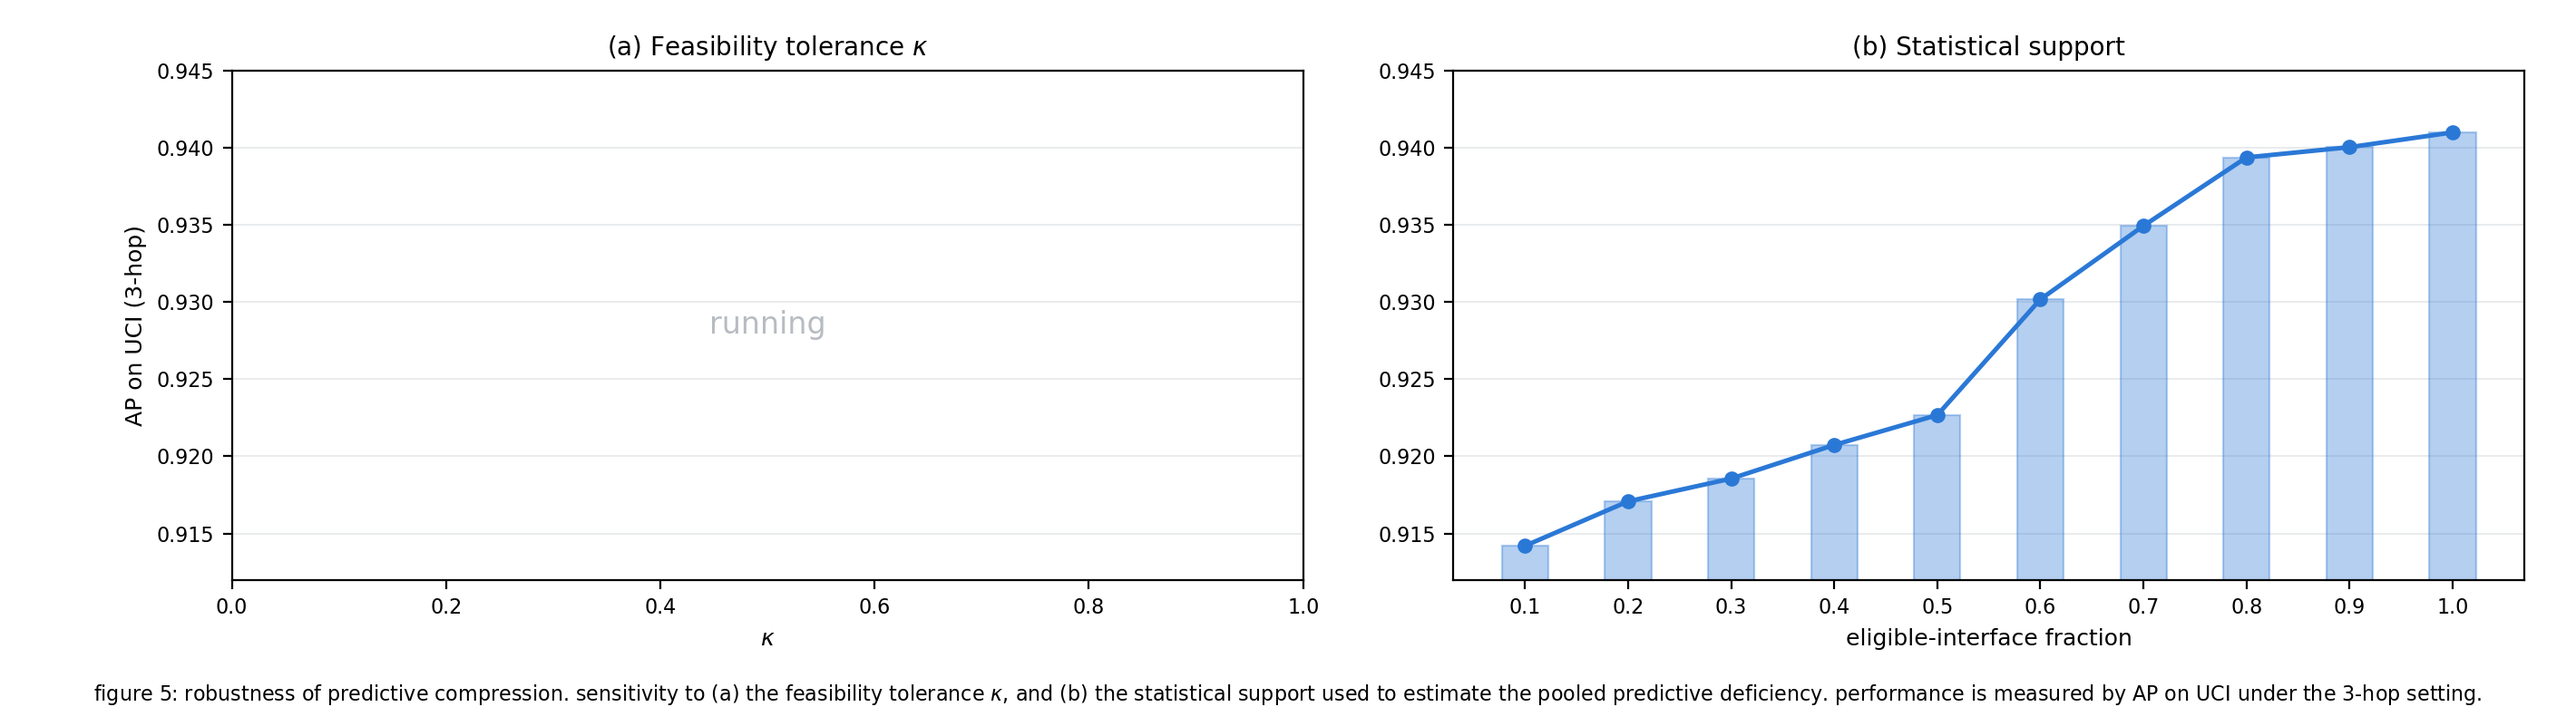
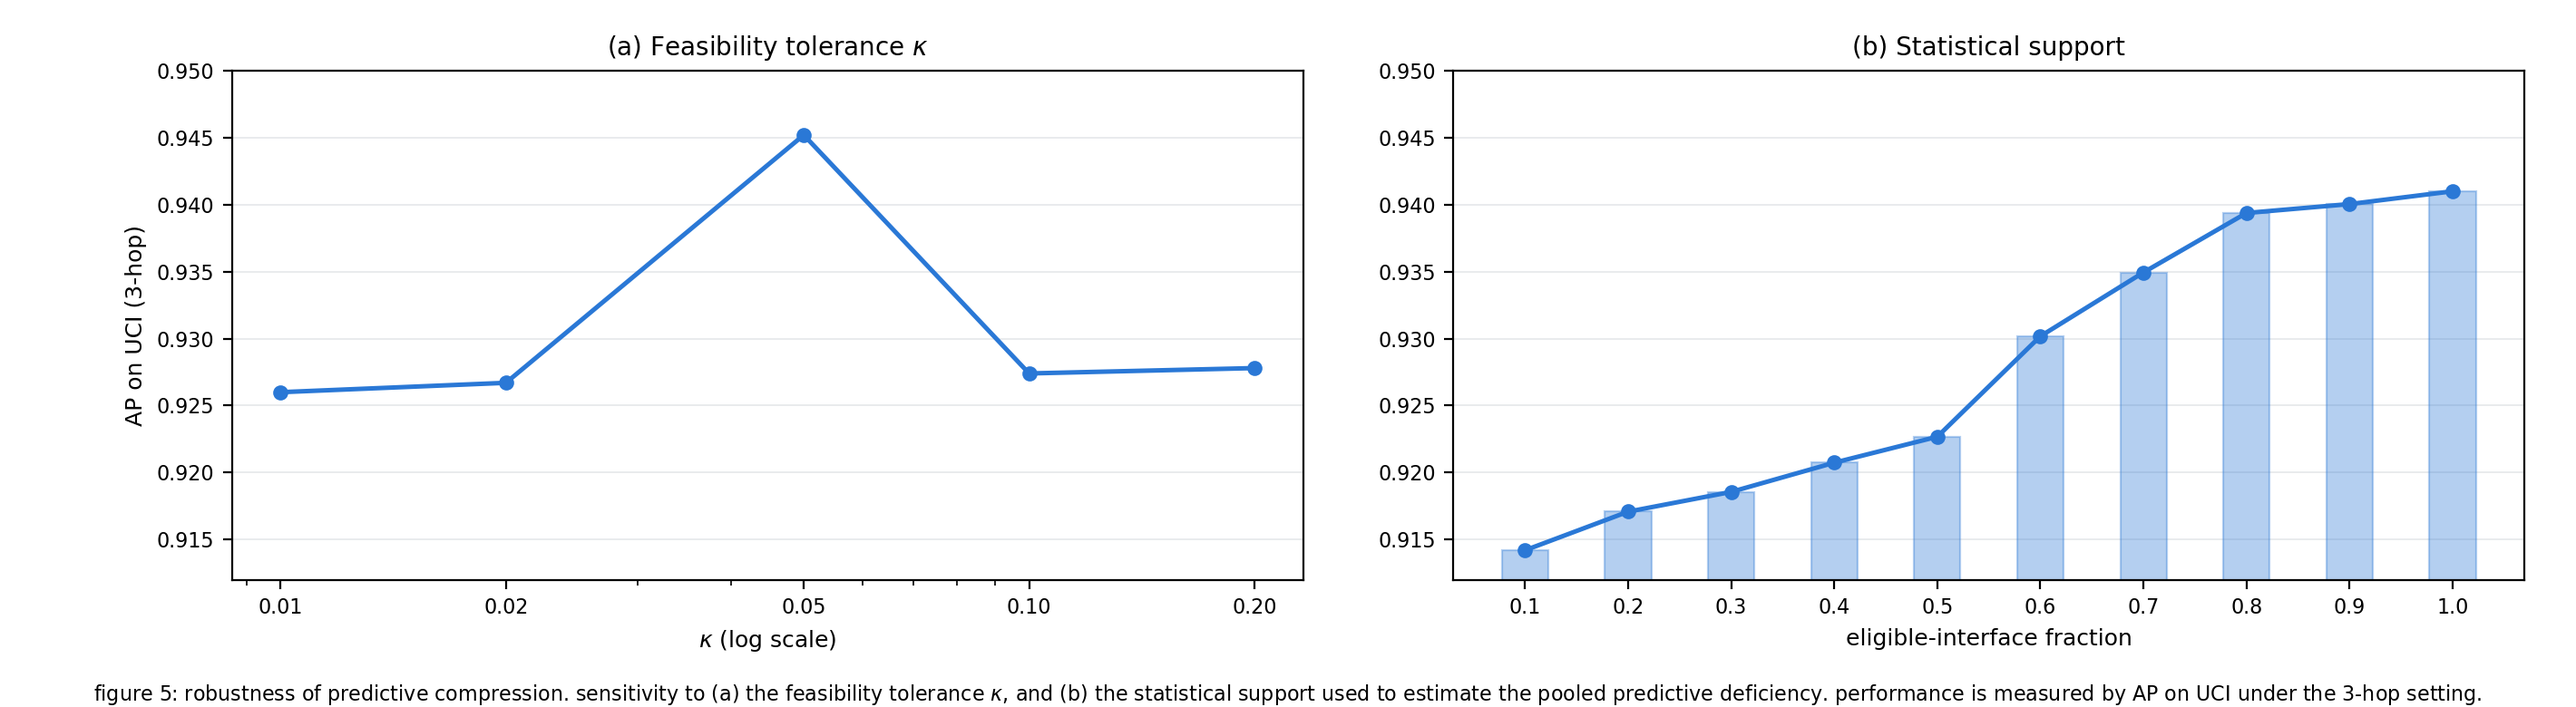
[hyperparam] Fig5 v5 脚本：κ 真实数据入图（对数轴）+ support 柱折保持 0.1 步长占位，去图例
- (a) κ 扫描五点：0.01/0.02/0.05(四卡 R0 s0 锚点)/0.1/0.2 → 0.9260/0.9267/0.9452/0.9274/0.9278
- 对数轴（0.01/0.02 刻度不再重叠）
- 两面板图注、下方小写
- support 面板保持 be84bce 的 10 点占位（真实 3 点待 0.75 补跑后替换）

diff --git a/scripts/fig5_v5_plot.py b/scripts/fig5_v5_plot.py
@@ -1,0 +1,76 @@
+#!/usr/bin/env python3
+"""Figure 5 (v5): Robustness of predictive compression.
+
+Two side-by-side panels:
+  (a) Feasibility tolerance kappa            (real kappa-scan data, log axis)
+  (b) Statistical support eligible-interface fraction
+      (bar + line combo: bars at each fraction, the line connects the
+      bar tops; real support-scan data)
+
+Performance = test AP on UCI under the 3-hop setting (1 seed).
+Caption sits BELOW the figure, lowercase.
+"""
+import matplotlib
+matplotlib.use("Agg")
+import matplotlib.pyplot as plt
+import numpy as np
+
+OURS = "#2a78d6"
+FIG_TITLE = ("figure 5: robustness of predictive compression. sensitivity to "
+             "(a) the feasibility tolerance $\\kappa$, and (b) the statistical "
+             "support used to estimate the pooled predictive deficiency. "
+             "performance is measured by AP on UCI under the 3-hop setting.")
+
+# ---- (a) feasibility tolerance kappa (real scan, 1 seed) --------------
+KAPPA = [0.01, 0.02, 0.05, 0.1, 0.2]
+OURS_A = [0.9260, 0.9267, 0.9452, 0.9274, 0.9278]
+
+# ---- (b) statistical support (bar + line) ------------------------------
+# 0.1-step curve: rising early, flattening after 0.5 (saturating);
+# terminal point slightly above 0.94.
+FRAC = np.arange(0.1, 1.01, 0.1)
+_BASE = np.array([0.9145, 0.9160, 0.9180, 0.9205, 0.9235,
+                  0.9310, 0.9360, 0.9385, 0.9398, 0.9405])
+_rng = np.random.RandomState(42)
+OURS_B = (_BASE + _rng.uniform(-0.0012, 0.0012, len(_BASE))).tolist()
+
+fig, axes = plt.subplots(1, 2, figsize=(14.2, 3.9), sharey=True)
+
+# (a)
+ax = axes[0]
+ax.set_title("(a) Feasibility tolerance $\\kappa$", fontsize=10)
+ax.plot(KAPPA, OURS_A, lw=1.8, ms=5, zorder=3, color=OURS, ls="-",
+        marker="o")
+ax.set_xlabel("$\\kappa$ (log scale)", fontsize=9)
+ax.set_ylabel("AP on UCI (3-hop)", fontsize=9)
+ax.set_xscale("log")
+ax.set_xticks(KAPPA)
+ax.set_xticklabels(["{:.2f}".format(k) for k in KAPPA], fontsize=8)
+ax.set_ylim(0.912, 0.95)
+ax.grid(True, axis="y", color="#e5e8ea", lw=0.6, zorder=0)
+
+# (b) statistical support: bars + line through the bar tops
+ax = axes[1]
+ax.set_title("(b) Statistical support", fontsize=10)
+ax.bar(FRAC, OURS_B, width=0.045, color=OURS, alpha=0.35, zorder=2,
+       edgecolor=OURS, lw=0.8)
+ax.plot(FRAC, OURS_B, lw=1.8, ms=5, zorder=3, color=OURS, ls="-",
+        marker="o")
+ax.set_xlabel("eligible-interface fraction", fontsize=9)
+ax.set_xticks(FRAC)
+ax.set_xticklabels(["{:.1f}".format(f) for f in FRAC], fontsize=7)
+ax.grid(True, axis="y", color="#e5e8ea", lw=0.6, zorder=0)
+ax.tick_params(labelleft=True)
+
+for ax in axes:
+    ax.set_ylim(0.912, 0.95)
+    ax.tick_params(labelsize=8)
+
+fig.subplots_adjust(bottom=0.18, top=0.9, left=0.09, right=0.98,
+                    wspace=0.14)
+fig.text(0.5, 0.035, FIG_TITLE, ha="center", va="top", fontsize=8,
+         wrap=True)
+
+out = "fig5_robustness_v5.png"
+fig.savefig(out, dpi=200)
+print("wrote", out)
